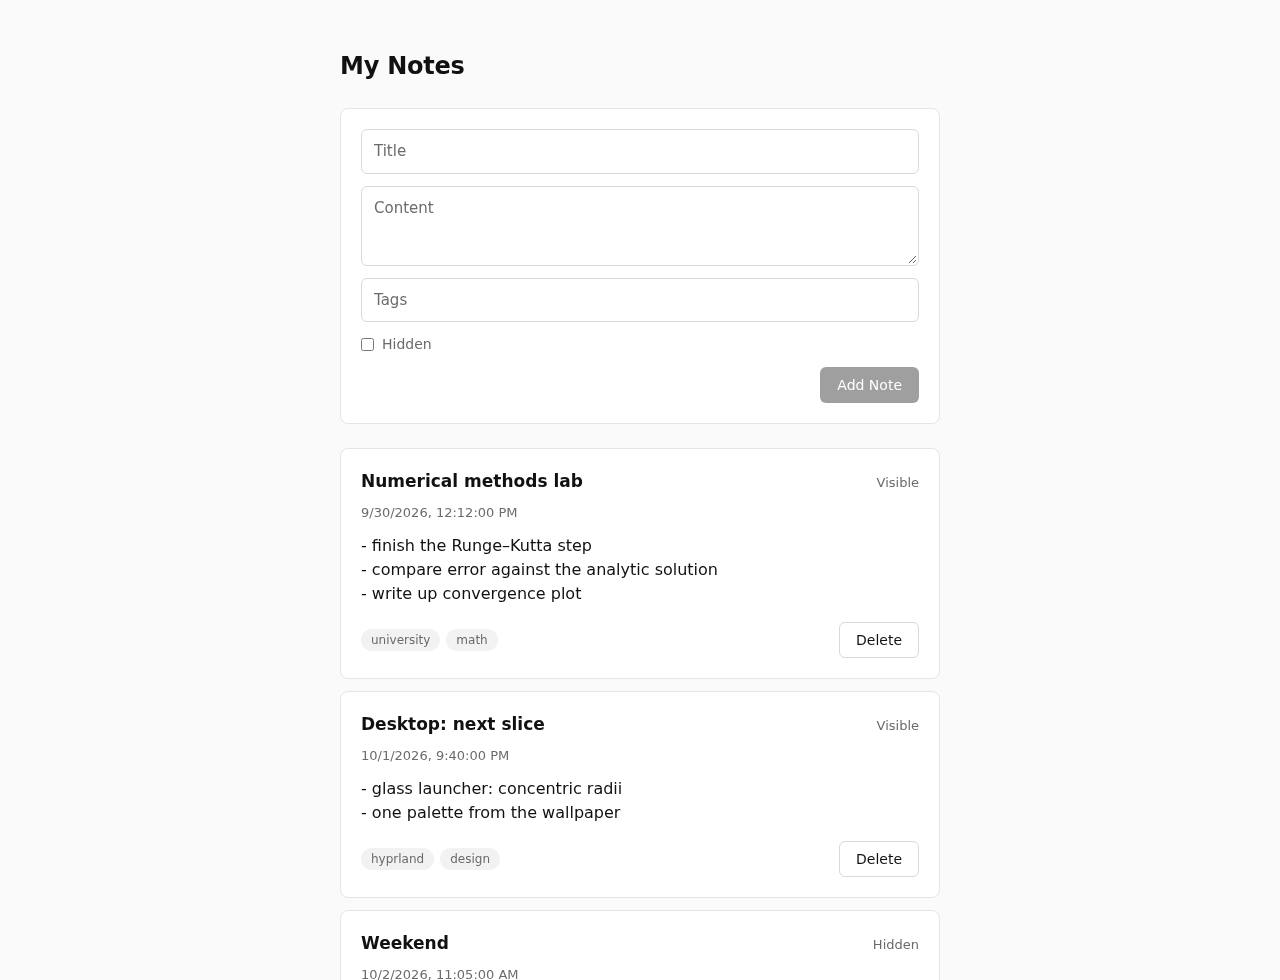
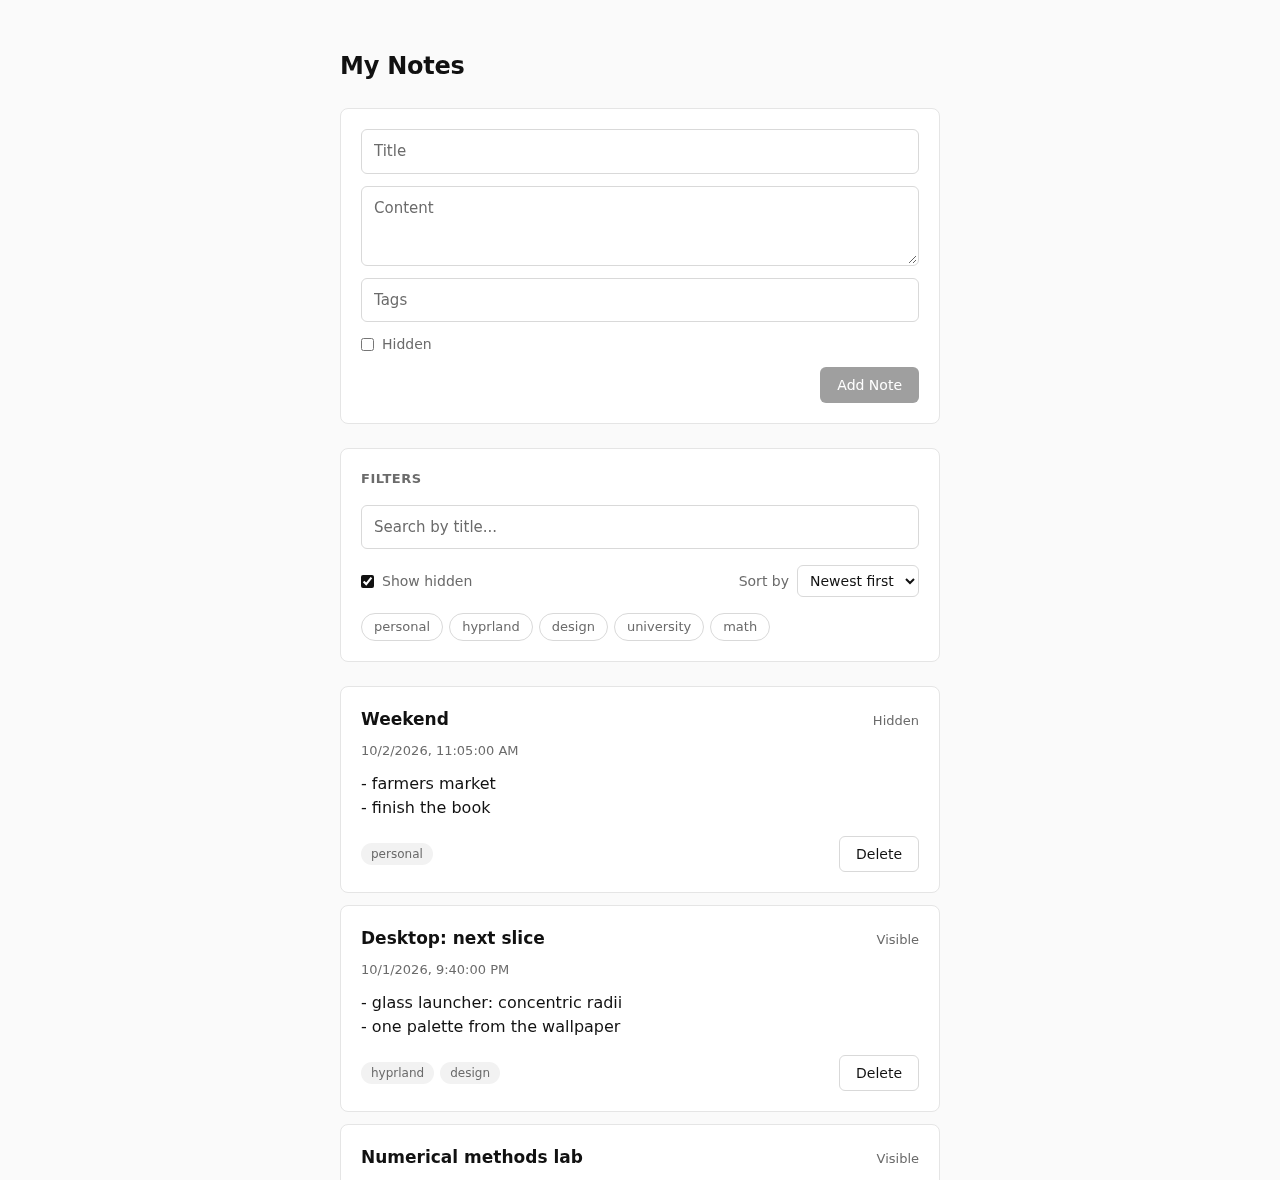
docs: describe filters in README and refresh the screenshot (#7)

diff --git a/README.md b/README.md
@@ -1,14 +1,17 @@
 # notes
 
-A small notes app in React 19 and TypeScript. Write a note, tag it, hide it from the list, delete it — all against a local REST API served by json-server.
+A small notes app in React 19 and TypeScript. Write a note, tag it, hide it, find it again with search, tag and sort filters, delete it — all against a local REST API served by json-server.
 
-<img alt="notes: a form for a new note above a list of tagged notes" src="docs/screenshot.png" width="100%">
+<img alt="notes: a form for a new note, a filter panel with search, sort and tag chips, and a list of tagged notes" src="docs/screenshot.png" width="100%">
 
 ## Features
 
 - Create notes with a title, content and up to five comma-separated tags
 - Mark a note as hidden; every card shows whether it is visible
-- Delete a note and the list refetches from the API
+- Filter on the server: search by title (`title:contains`), hide hidden notes (`hidden=false`), sort by creation date newest or oldest first (`_sort`)
+- Filter by tags on the client — json-server can't match inside arrays — with toggle chips; a note shows if it has any of the selected tags
+- An empty-state message when nothing matches
+- After creating or deleting a note the list refetches with the active filters; stale search responses are ignored
 - Form state and validation on `react-hook-form`
 - Dates travel as ISO strings and become `Date` objects at the edge (`mapNoteFromDTO` / `mapNoteToDTO` in `src/utils.ts`)
 
@@ -30,10 +33,13 @@ React 19 · TypeScript · Vite · react-hook-form · json-server · CSS Modules 
 
 ```
 src/
-  App.tsx              fetch, create, delete
-  CreateNoteForm.tsx   the form and its validation
-  NoteCard.tsx         one note
-  Button.tsx           shared button
-  types.ts             Note and its wire format, NoteDTO
-  utils.ts             DTO ↔ model mapping
+  components/
+    App.tsx              fetch, create, delete; filter state and tag filtering
+    CreateNoteForm.tsx   the form and its validation
+    NoteFilterForm.tsx   search, show-hidden, sort and tag chips
+    NoteCard.tsx         one note
+    Button.tsx           shared button
+  styles/                CSS Modules, one per component, plus global index.css
+  types.ts               Note, its wire format NoteDTO, and NoteFilter
+  utils.ts               DTO ↔ model mapping
 ```
